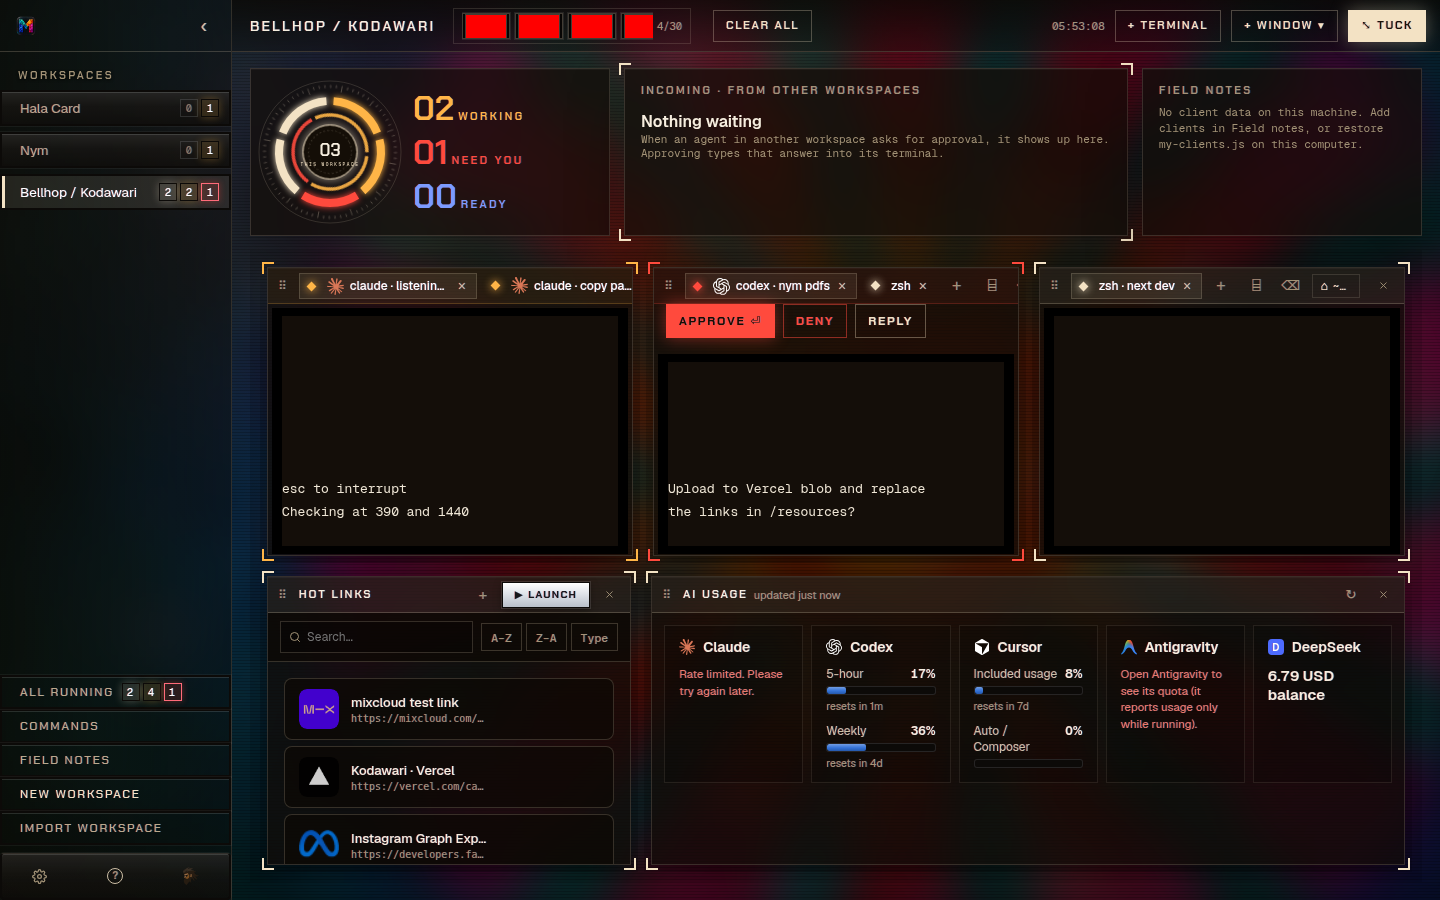
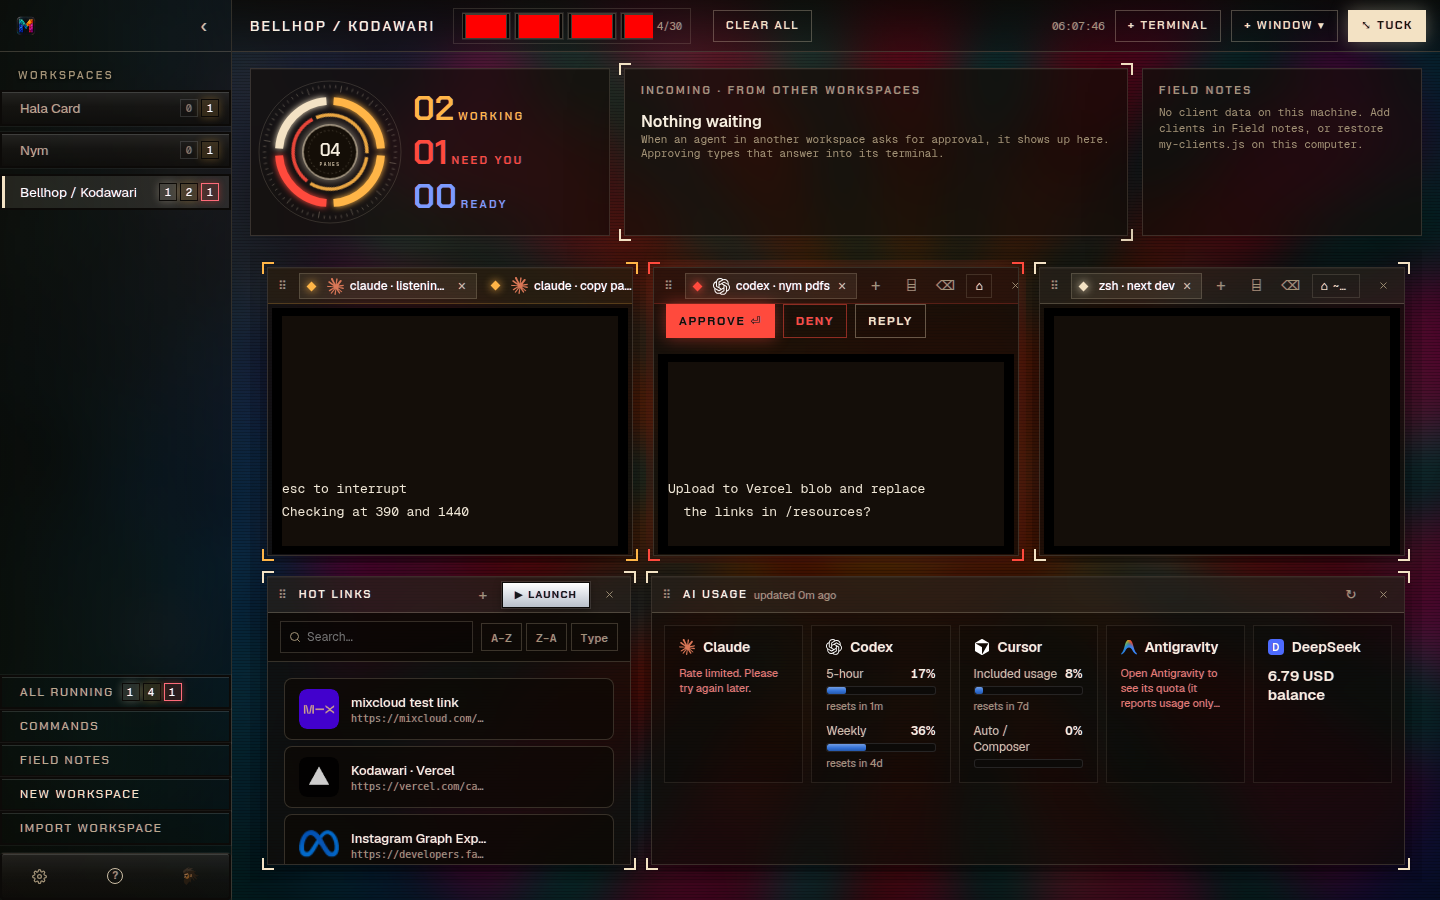
Update the redesign QA for the Deny-key and ring-count fixes.
Rechecks the claimed keystrokes and records the remaining false positive.

diff --git a/qa/REPORT.md b/qa/REPORT.md
@@ -1,112 +1,71 @@
-# Mosaic redesign QA — round 2
+# Mosaic redesign QA — round 3
 
-**Score: 7/10.** The round-1 approval alarm and the chrome checklist are fixed and rechecked; Deny on Claude's three-option menu still types "Yes, and don't ask again", and the ring is 03 beside the guide's 02/01/00 rather than 04.
+**Score: 8/10.** The claimed keystrokes, the full wrapped question, and a ring of 04 beside 02/01/00 all check out. A screen that merely ends in numbered Yes/No lines still opens the red card, so this is not a 9.
 
-Rebased `qa/mosaic-redesign-review` onto `afacbf6` (`cursor/mosaic-redesign-6c1c`). The builder's checklist was not taken as evidence. Same method as round 1: Vite at 1440×900, Tauri stubbed, prompt text written through the `pty-data-*` listener. The guide was remeasured from the mockup after boot: Working **02**, Need you **01**, Ready **00**, ring **04**.
+Rechecked `180d0ac` on `cursor/mosaic-redesign-6c1c` after rebasing `qa/mosaic-redesign-review`. Vite, Tauri stubbed, prompts written through `pty-data`, 1440×900. `npm test` is 7/7. `npx tsc --noEmit` passed. `cargo +stable check` passed. `cargo +stable test` passed (`gallery_filters_sorts_and_limits_to_thirty`).
 
-## Verified fixed
+## Verified
 
-| Item | What I saw |
+| Claim | Result |
 | --- | --- |
-| P1 Allow Bash card | Incoming card: **Hala Card · Claude Code · 0m ago · Allow Bash(rm -rf public/old-icons)?** with Approve, Deny, Open. The bytes were ANSI-colored (`ESC[31m…ESC[0m`) and xterm still produced the question. `qa/screenshots/app-bellhop.png`. |
-| P1 Approve clears that card | Approve wrote `1\r`. The Hala card left. A second, different prompt (Nym, "Do you want to proceed?") stayed, which is the queue, not the same alarm. `qa/screenshots/app-after-approve.png`. |
-| P1 Deny clears | Deny on that Nym card wrote `2\r` (its menu is `1. Yes` / `2. No`) and the card became **Nothing waiting**. `qa/screenshots/app-after-deny.png`. |
-| Codex upload sentence | `Upload to Vercel blob and replace / the links in /resources?` is attention. The Codex pane showed the red Approve / Deny / Reply bar. Approve wrote `y\r` (no numbered Yes on that sentence) and the bar left. |
-| Scrollback | After the answer, burying Allow Bash under 40 lines of ordinary output did not reopen the card. Painting the same question at the bottom again did reopen it. That matches `App.tsx:233-236`: once the prompt leaves the live window the dismissal is dropped, so a new paint can light it; text that has scrolled out of the last screenful does not. |
-| Chips | Active workspace chips computed to `rgb(243, 226, 196)`, `rgb(255, 181, 71)`, `rgb(255, 74, 61)`. |
-| Idle + toggle | All Running's third label is **Idle**. A second click returned the title to Bellhop / Kodawari. `qa/screenshots/app-all.png`. |
-| Usage row | Five cards (Claude, Codex, Cursor, Antigravity, DeepSeek) share one y position. Hot Links is 378px wide and AI usage is 768px, the extra columns. `qa/screenshots/app-bellhop.png`. |
-| Commands | One `.commands-table` with heat pips, command, label, category, count, Copy. Search "postgres" left `npm run db:local`. `qa/screenshots/app-commands.png`. |
-| Age | Incoming meta is `0m ago`. |
-| Glyphs | Visible terminal headers' toolbox and clear buttons read ⌸ and ⌫. |
-| Folder glyph | No `.screenshot-folder` in the strip. Empty-folder copy still offers choosing a folder. |
-| CRT grade | `.g-grain`, `.g-rgb`, and `.g-scan` at opacity 0.55 are in the tree. Title and label `text-shadow` is the red/blue split (`workshop.css:98-100`). Terminal canvases and fields are excluded (`workshop.css:101-107`). |
-| Regressions | Sidebar chips showed 2 shells / 2 working / 1 attention and tracked the answers. Hot links search, A–Z order, and Launch (4 `open_path` calls) worked. Drag moved a panel from Bellhop (6→5) onto Hala (1→2). Tab double-click opened the rename field. Window → Zen Studio added the panel. Field notes with the gitignored files absent says there is no client data and does not show 92/133. `git diff 2d2cbbd..afacbf6` does not touch `my-clients.js`, `workstreams-data.js`, or `files/`. |
+| Claude 2-option | `1. Yes` / `2. No, and tell Claude what to do differently` → Approve `1\r`, Deny `2\r`. |
+| Claude 3-option | `1. Yes` / `2. Yes, and don't ask again` / `3. No, and tell Claude what to do differently` → Approve `1\r`, Deny `3\r`. Live Deny on Nym wrote `3\r` and the queue became Nothing waiting. `qa/screenshots/app-after-deny.png`. |
+| Options in another order | `1. No…` / `2. Yes, and don't ask again` / `3. Yes` → Approve `3\r`, Deny `1\r`. |
+| Four options | Deny is the first label that starts with No (`3\r`), not the later `4. No, and stop`. |
+| `Yes, don't ask again` without "and" | Still not treated as the plain Yes. Deny stays `3\r`. |
+| Wrapped Allow Bash | Card text is the full `Allow Bash(rm -rf public/old-icons)?`, not `)?`. Approve on that header-only prompt wrote `1\r`. `qa/screenshots/app-bellhop.png`. |
+| Codex upload sentence | Detected. Prompt is the whole sentence. Approve `y\r`, Deny `n\r`. The visible bar's Approve wrote `y\r`. |
+| Codex numbered rows | `1. Yes, proceed` / `2. No, and tell Codex…` → `1\r` / `2\r`, including when the question has scrolled off. A `›` composer under the rows still detects. |
+| Prose "do you want to proceed?" | Alone, and with another sentence after it, state is `unknown`. |
+| Buried answered prompt | After Allow Bash was answered, 36 ordinary lines did not reopen the card. Painting the question at the bottom again did. |
+| Two agents at once | Incoming read "1 of 2". Approving Hala left Nym's "Do you want to proceed?". `qa/screenshots/app-after-approve.png`. |
+| Ring | Four terminal tabs, statuses 2 working / 1 need-you / 1 shell: center **04**, labels **02 Working / 01 Need you / 00 Ready**. That is the accepted call, and the two sides are consistent with each other. The count is tabs, not panes: `terminalPanes` adds `panel.tabs.length` (`src/lib/approvals.ts:54-58`). Two tabs in one pane count as two. |
+| Usage age | Header reads `updated 0m ago`. |
+| Regressions | Chips `#F3E2C4` / `#FFB547` / `#FF4A3D`. Idle label, All Running toggles back. Five usage cards on one row. Commands heat table, postgres search. ⌸ and ⌫. No folder glyph. Hot links search, A–Z, Launch (4 `open_path`s). Tab rename. Drag onto Hala. Zen Studio panel ("Zen Studio isn't running"). Field notes files absent, no fake 92/133, and this commit does not touch them. |
 
-`npx tsc --noEmit` passed. `cargo +stable check` passed. `cargo +stable test` passed (`gallery_filters_sorts_and_limits_to_thirty`).
+## Allow Bash / Allow WebFetch with no numbers
 
-## Ring: the guide is 02/01/00 and 04, and those are not the same sum
+The code does what was claimed: no numbered rows, and the line matches `allow <name>`, so Approve is `1\r` and Deny is `2\r` (`src/lib/agents.ts:308-311`).
 
-Remeasured from the mockup (`qa/screenshots/ref-workspace.png`): center **04**, labels **02 / 01 / 00**. 2+1+0 is 3, so the guide's four figures are not a sum. The sidebar on that board shows 4 terminal sessions.
+That Approve key matches Claude Code's first option. The Deny key does not match Claude's usual menu. The dialog that actually ships is three options: 1 Yes, 2 Yes and don't ask again, 3 No. A header-only frame has not shown those rows yet, and Deny `2` is the don't-ask-again Yes, which is the round-2 bug in the case where the rows are missing. Deny `2` is right only for a two-option menu. Once the rows are on screen, the No line is chosen (verified `3\r`).
 
-On a matching mix (2 working, 1 need-you, 0 ready, 2 shell panes) the app reads center **03**, labels **02 Working / 01 Need you / 00 Ready** (`WorkspaceDashboard.tsx:51-53`, `qa/screenshots/app-bellhop.png`). The three labels match the guide. The center is their sum, so it cannot also be the guide's 04 while Ready stays 00. Shells are no longer added in; that part of the old bug is fixed.
+## Still broken
 
-The checklist's **04 beside 02/01/01** is what this formula produces when one agent is Ready. It is internally consistent. It is not the board printed in the guide, which has Ready at 00.
+### P2 — A trailing Yes/No list is a dialog, even in prose or a log
 
-All Running is consistent with the same rule: center 07 beside 03 Working / 02 Need you / 02 Idle, and 3+2+2=7 (`AllRunningView.tsx:57-69`). Idle there is shells plus ready.
+`choicesAtEnd` (`src/lib/agents.ts:154-169`) treats the screen as attention when the bottom lines are numbered, one label starts with "yes" (and is not "don't ask again"), and another starts with "no".
 
-## New defects
+Both of these light the card and offer `1\r` / `2\r`:
 
-### P1 — Deny on Claude's three-option menu types "Yes, and don't ask again"
+- `The handbook shows an example of do you want to proceed?` followed by `1. Yes` / `2. No, and tell Claude what to do differently`.
+- `1. Yes we shipped the patch` / `2. No issues found in CI`, with no permission question at all. The card title is then "Waiting for approval".
 
-`Do you want to proceed?` with
+The second one was also written into Nym's live terminal and opened the incoming card (`qa/screenshots/app-ring.png`).
 
-```
-1. Yes
-2. Yes, and don't ask again
-3. No, and tell Claude what to do differently
-```
+Expected: a permission dialog, or option rows whose labels are the real choices (`Yes`, `No, and tell Claude…`). A status log or a handbook example stays quiet.
 
-is detected, and Approve is `1\r`. Deny is `2\r`.
+### P2 — Header-only Deny is hard-coded to 2
 
-`extractApproval` treats a line as No when it contains `no`, `deny`, `don't`, or `block` (`src/lib/agents.ts:284`). Option 2 matches `don't`, and it is found before option 3. Deny would type the yes that also stops future prompts.
+`src/lib/agents.ts:311`. Expected: Deny waits until a line that starts with No is on screen, then sends that number. On Claude's three-option menu that number is 3, not 2.
 
-Expected: Deny sends `3\r`, the line that is actually No. A two-option menu (`1. Yes` / `2. No, and tell Claude`) does send `2\r`, and that path was checked live.
+### P3 — Antigravity line is still clipped
 
-### P2 — Any "do you want to …?" sentence lights the alarm
+Not claimed fixed. The card's note is line-clamped (`src/components/UsagePanel.css:112-120`). Measured client height 45px against a scroll height of 59px, so "Open Antigravity to see its quota (it reports usage only while running)." is cut to "…usage only." Expected: the full sentence, as on the guide's usage card.
 
-`I already asked do you want to proceed? The user said yes yesterday.` is `attention`, with Approve `1\r` and Deny `2\r`.
+### P3 — The ring caption says PANES
 
-The choice half of the Claude rule includes a bare `\?` (`src/lib/agents.ts:138`), and a second rule matches the question with no option rows (`src/lib/agents.ts:171`). The comment above the rule table (`agents.ts:110-112`) says anchoring on the question alone matches an agent describing an approval. That is what this sentence is.
-
-Expected: a mention of the question in ordinary output stays off the red card. The live dialog, with its option rows or an `Allow Tool(...)?` line, is the card.
-
-### P2 — A split Allow line is shown as ")?"
-
-`Allow Bash(\nrm -rf public/old-icons\n)?` is detected, and the key is the full question, but `extractApproval` uses the last line that ends in `?` (`src/lib/agents.ts:279-285`). That line is `)?`, so the incoming card would title itself `)?`.
-
-The wrapped upload sentence has the same picker: the card prompt is `the links in /resources?` rather than the whole sentence. The one-line form `Upload to Vercel blob and replace the links?` is kept whole.
-
-Expected: the card shows the question the guide prints, including when the closing `?` sits on its own line.
-
-### P2 — Center is 03 where the guide prints 04
-
-Covered above. Labels 02/01/00 match. Center does not. `WorkspaceDashboard.tsx:53`.
-
-## P3
-
-- `Allow WebFetch?` with no parentheses is `unknown` (`src/lib/agents.ts:170` requires `(...)`). `Allow Edit(src/App.tsx)?` and `Allow Bash(...)?` are detected.
-- The usage header still says "updated just now" (`UsagePanel.tsx` `ago`, around the 138–143 definitions). The incoming card is `0m ago`. The guide's usage line is a minute stamp ("updated 2m ago").
-- The five usage cards fit one row and the Antigravity sentence wraps hard inside its fifth. Readable, tight.
-- Gemini `Allow execution of` is detected. The extracted prompt is the option row `1. Allow once`, same last-match behavior as the split Allow line.
-
-## Variants that did detect
-
-Checked through the app's own `detectScreenState` / `extractApproval`, plus the live ANSI Allow Bash write:
-
-- `Allow Bash(rm -rf public/old-icons)?` alone, and with `1. Yes` / `2. No` (approve `1\r`, deny `2\r`).
-- `Allow Edit(src/App.tsx)?`.
-- `Do you want to make this edit?` with Yes / No.
-- `Would you like to run the following command?`, `make the following edits?` (`Yes, just this once`), and `grant these permissions?`.
-- Codex option rows with the question scrolled off (`1. Yes, proceed` / `2. No, and tell Codex`).
-- Claude option rows with the question scrolled off.
-- The same Allow Bash line buried under 30 lines and followed by `esc to interrupt` stays `running`.
-- ANSI color bytes around Allow Bash still detect once xterm has interpreted them (the live card) and even on the raw string.
+The guide's caption is THIS WORKSPACE. The workspace ring and All Running both say PANES (`src/components/WorkspaceDashboard.tsx:73`, `src/components/AllRunningView.tsx:65`). The number under it is the tab count described above.
 
 ## Needs a Mac
 
-Unchanged, and not claimed as done here: a live Claude or Codex TUI accepting the keystroke, real provider logins, Tuck's window geometry and always-on-top, `sips` thumbnails, the Desktop / Full Disk Access URLs, and Zen Studio actually serving on port 3003. The Zen menu still adds the panel.
+A live Claude or Codex TUI accepting the keystroke (including a header-only frame before the option rows paint), real provider logins, Tuck's window geometry and always-on-top, `sips` thumbnails, the Desktop permission URLs, and Zen Studio actually listening on port 3003. The panel itself renders and offers Open.
 
 ## Shots
 
-All 1440×900.
-
-- `qa/screenshots/ref-workspace.png` — guide, ring 04, labels 02/01/00
-- `qa/screenshots/ref-all.png`
-- `qa/screenshots/app-bellhop.png` — Allow Bash card, ring 03, five usage cards
+- `qa/screenshots/app-bellhop.png` — Allow Bash card, ring 04, labels 02/01/00, usage `updated 0m ago`
 - `qa/screenshots/app-after-approve.png` — Hala cleared, Nym still queued
 - `qa/screenshots/app-after-deny.png` — Nothing waiting
+- `qa/screenshots/app-ring.png` — prose-plus-options false positive, Zen Studio panel
 - `qa/screenshots/app-all.png` — Idle
-- `qa/screenshots/app-commands.png` — heat table, postgres search
-- `qa/screenshots/app-ring.png` — after the Codex answer, 03 Working / 00 Need you / 00 Ready
-- `qa/screenshots/app-drag.png`
+- `qa/screenshots/app-commands.png` — heat table
+- `qa/screenshots/ref-workspace.png` — guide, for the 04 / 02/01/00 comparison
